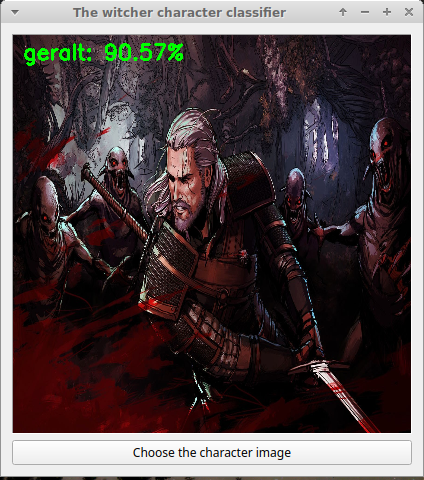
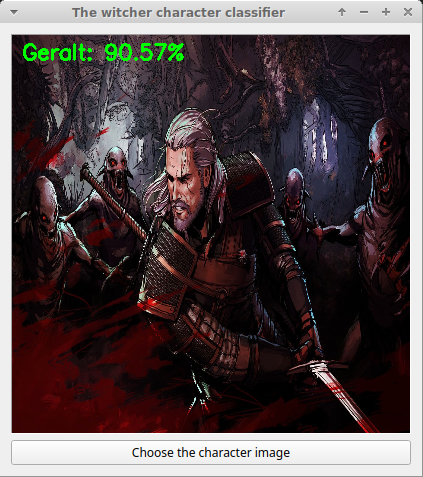
Uppercase classifier label.

diff --git a/src/neural_network.py b/src/neural_network.py
@@ -83,7 +83,7 @@ class NeuralNetwork:
         if percentage < 50:
             label = constant.UNKNOWN_LABEL
 
-        label = "{}: {:.2f}%".format(label, percentage)
+        label = "{}: {:.2f}%".format(label.title(), percentage)
         output = cv2.resize(image, (constant.IMAGE_SHOW_WIDTH, constant.IMAGE_SHOW_HEIGHT))
 
         cv2.putText(output, label, (10, 25), cv2.FONT_HERSHEY_SIMPLEX, 0.7, (0, 255, 0), 2)

diff --git a/src/helper/constant.py b/src/helper/constant.py
@@ -4,7 +4,7 @@ LB_PATH = "lb.pickle"
 MODEL_LOSS = "categorical_crossentropy"
 MODEL_PATH = "output/witcher-classifier.h5"
 PLOT_PATH = "output/plot.png"
-UNKNOWN_LABEL = "Unknown"
+UNKNOWN_LABEL = "unknown"
 BATCH_SIZE = 32
 IMAGE_WIDTH = 224
 IMAGE_HEIGHT = 224
